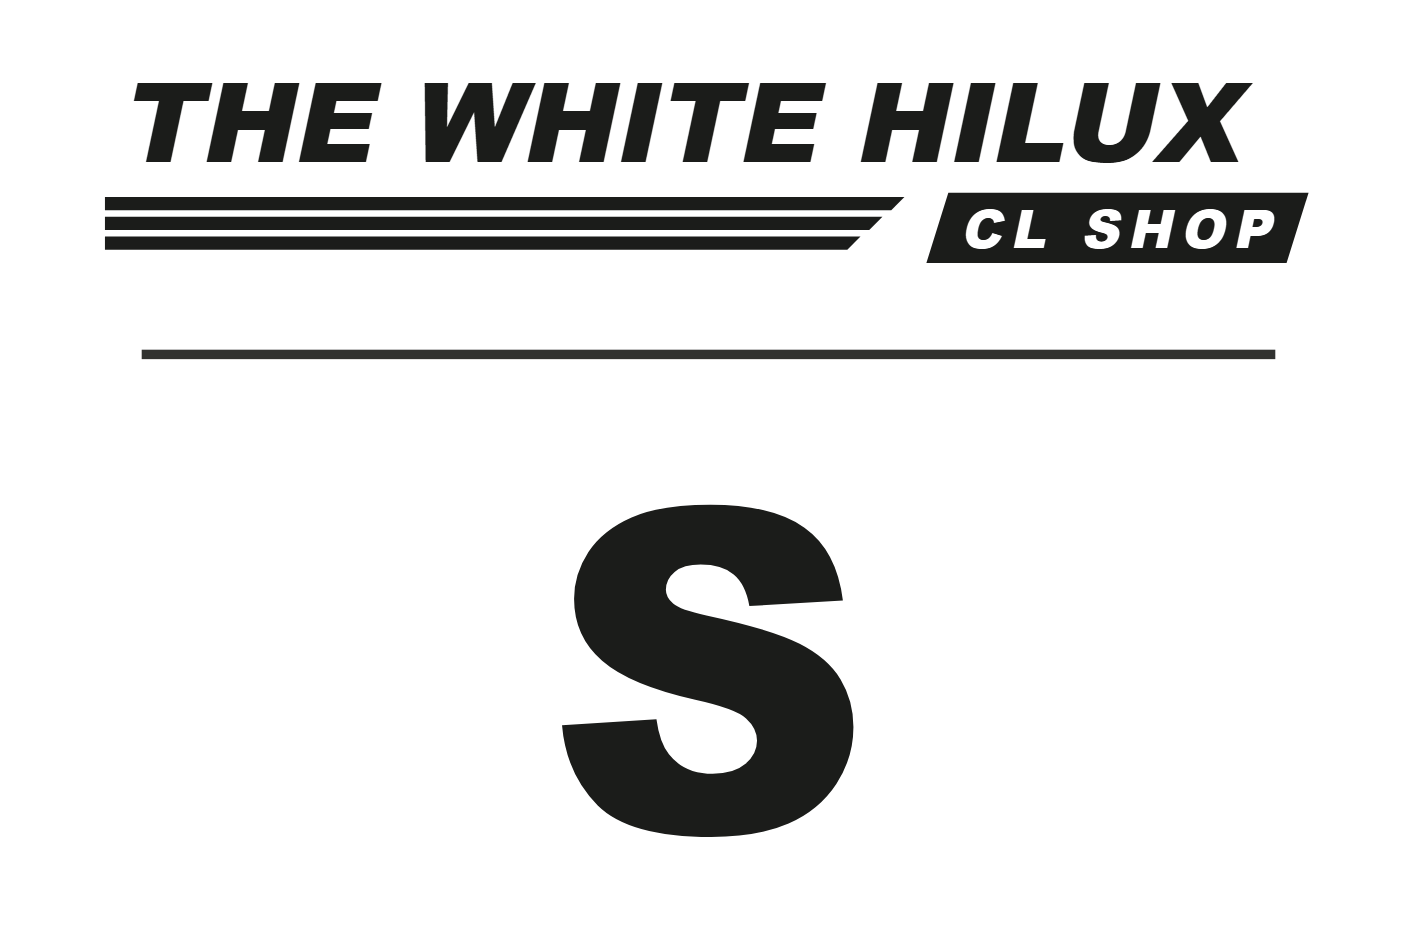
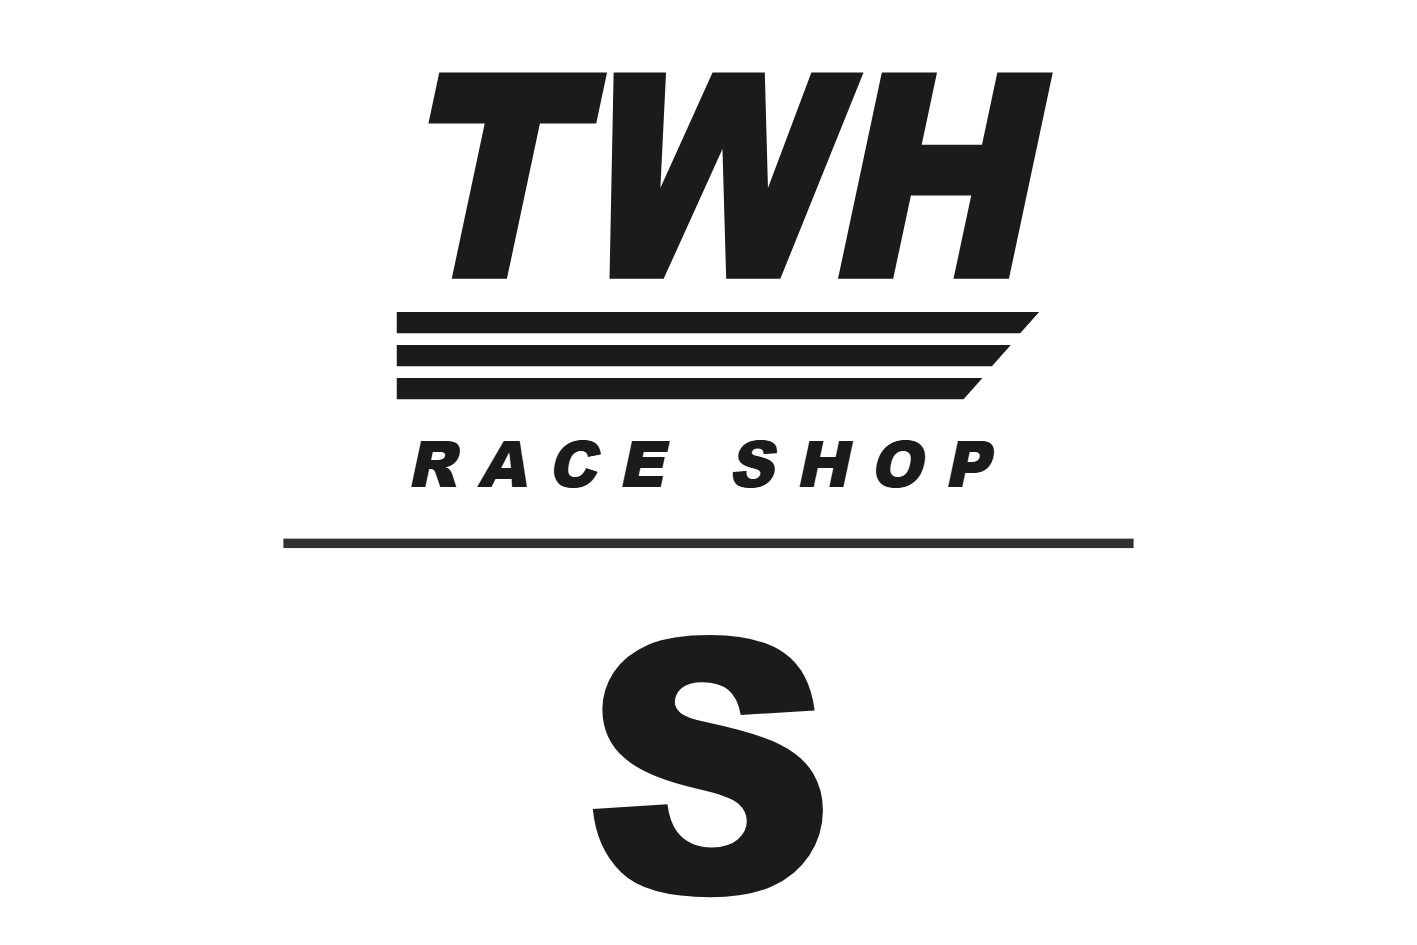
Etiqueta de cuello: iniciales TWH con franjas y RACE SHOP (sin CL SHOP)

Changed region(s): [[0.0621, 0.0614, 0.9315, 0.4296], [0.1863, 0.4603, 0.8073, 0.9513]]

diff --git a/disenos/configurador/etiqueta.js b/disenos/configurador/etiqueta.js
@@ -1,4 +1,4 @@
-// Etiqueta TWH estampada en el cuello interior: logo + talla (60 x 40 mm).
+// Etiqueta TWH estampada en el cuello interior: "TWH" + franjas + "RACE SHOP" + talla (60 x 40 mm).
 // La comparten disenos/etiquetas/generar.js (archivos para la imprenta) y el configurador (vista previa).
 // Dos versiones, según el color de la prenda:
 //   negra  → "clara"  (1 tinta crema)
@@ -11,26 +11,20 @@
   };
   function versionPara(color) { return color === 'blanco' ? 'oscura' : 'clara'; }
 
-  var n = 0;
-  // Mismo dibujo que el logo oficial "THE WHITE HILUX · CL SHOP" (web/assets/logos/logo-shop.svg), en 1 tinta,
-  // con "CL SHOP" calado dentro de su caja. Abajo la talla grande.
-  // opts.width/height: tamaño del <svg> (por defecto 60mm x 40mm)
+  // Iniciales "TWH" en cursiva con las 3 franjas de rally (mismo estilo del logo oficial), "RACE SHOP" debajo
+  // y la talla grande. 1 sola tinta. opts.width/height: tamaño del <svg> (por defecto 60mm x 40mm)
   function svg(talla, version, opts) {
     var o = opts || {};
     var ink = (VERSIONES[version] || VERSIONES.clara).tinta;
-    var id = 'twh-et-' + version + '-' + talla + '-' + (n++);
-    var ancho = talla.length >= 3 ? 330 : talla.length === 2 ? 260 : null; // XL/XXL más angostas
+    var ancho = talla.length >= 3 ? 300 : talla.length === 2 ? 230 : null; // XL/XXL más angostas
+    // franjas: borde izquierdo recto y derecho en diagonal, cada una un poco más corta (como en el logo)
+    var franja = function (y, x2) { return '<path d="M168 ' + y + ' H' + x2 + ' L' + (x2 - 8) + ' ' + (y + 9) + ' H168 Z" fill="' + ink + '"/>'; };
     return '<svg xmlns="http://www.w3.org/2000/svg" viewBox="0 0 600 400" width="' + (o.width || '60mm') + '" height="' + (o.height || '40mm') + '">' +
-      '<defs><mask id="' + id + '"><rect x="0" y="0" width="566" height="120" fill="#fff"/><g transform="translate(470 97) skewX(-12)"><text x="0" y="0" font-family="' + FONT + '" font-size="24" fill="#000" text-anchor="middle" letter-spacing="4">CL SHOP</text></g></mask></defs>' +
-      '<g transform="translate(37 22) scale(0.93) translate(0 -8)">' +
-        '<g transform="translate(14 58) skewX(-12)"><text x="0" y="0" font-family="' + FONT + '" font-size="50" fill="' + ink + '" textLength="510" lengthAdjust="spacingAndGlyphs">THE WHITE HILUX</text></g>' +
-        '<path d="M8 74 H372 L366 80 H8 Z" fill="' + ink + '"/>' +
-        '<path d="M8 83 H362 L356 89 H8 Z" fill="' + ink + '"/>' +
-        '<path d="M8 92 H352 L346 98 H8 Z" fill="' + ink + '"/>' +
-        '<path d="M392 72 H556 L546 104 H382 Z" fill="' + ink + '" mask="url(#' + id + ')"/>' +
-      '</g>' +
-      '<rect x="60" y="148" width="480" height="4" fill="' + ink + '" opacity=".9"/>' +
-      '<text x="300" y="352" font-family="' + FONT + '" font-size="190" fill="' + ink + '" text-anchor="middle"' + (ancho ? ' textLength="' + ancho + '" lengthAdjust="spacingAndGlyphs"' : '') + '>' + talla + '</text>' +
+      '<g transform="translate(300 118) skewX(-12)"><text x="0" y="0" font-family="' + FONT + '" font-size="122" fill="' + ink + '" text-anchor="middle" textLength="270" lengthAdjust="spacingAndGlyphs">TWH</text></g>' +
+      franja(132, 440) + franja(146, 428) + franja(160, 416) +
+      '<g transform="translate(300 206) skewX(-12)"><text x="0" y="0" font-family="' + FONT + '" font-size="27" fill="' + ink + '" text-anchor="middle" letter-spacing="9">RACE SHOP</text></g>' +
+      '<rect x="120" y="228" width="360" height="4" fill="' + ink + '" opacity=".9"/>' +
+      '<text x="300" y="378" font-family="' + FONT + '" font-size="150" fill="' + ink + '" text-anchor="middle"' + (ancho ? ' textLength="' + ancho + '" lengthAdjust="spacingAndGlyphs"' : '') + '>' + talla + '</text>' +
       '</svg>';
   }
 

diff --git a/web/admin/configurador/etiqueta.js b/web/admin/configurador/etiqueta.js
@@ -1,4 +1,4 @@
-// Etiqueta TWH estampada en el cuello interior: logo + talla (60 x 40 mm).
+// Etiqueta TWH estampada en el cuello interior: "TWH" + franjas + "RACE SHOP" + talla (60 x 40 mm).
 // La comparten disenos/etiquetas/generar.js (archivos para la imprenta) y el configurador (vista previa).
 // Dos versiones, según el color de la prenda:
 //   negra  → "clara"  (1 tinta crema)
@@ -11,26 +11,20 @@
   };
   function versionPara(color) { return color === 'blanco' ? 'oscura' : 'clara'; }
 
-  var n = 0;
-  // Mismo dibujo que el logo oficial "THE WHITE HILUX · CL SHOP" (web/assets/logos/logo-shop.svg), en 1 tinta,
-  // con "CL SHOP" calado dentro de su caja. Abajo la talla grande.
-  // opts.width/height: tamaño del <svg> (por defecto 60mm x 40mm)
+  // Iniciales "TWH" en cursiva con las 3 franjas de rally (mismo estilo del logo oficial), "RACE SHOP" debajo
+  // y la talla grande. 1 sola tinta. opts.width/height: tamaño del <svg> (por defecto 60mm x 40mm)
   function svg(talla, version, opts) {
     var o = opts || {};
     var ink = (VERSIONES[version] || VERSIONES.clara).tinta;
-    var id = 'twh-et-' + version + '-' + talla + '-' + (n++);
-    var ancho = talla.length >= 3 ? 330 : talla.length === 2 ? 260 : null; // XL/XXL más angostas
+    var ancho = talla.length >= 3 ? 300 : talla.length === 2 ? 230 : null; // XL/XXL más angostas
+    // franjas: borde izquierdo recto y derecho en diagonal, cada una un poco más corta (como en el logo)
+    var franja = function (y, x2) { return '<path d="M168 ' + y + ' H' + x2 + ' L' + (x2 - 8) + ' ' + (y + 9) + ' H168 Z" fill="' + ink + '"/>'; };
     return '<svg xmlns="http://www.w3.org/2000/svg" viewBox="0 0 600 400" width="' + (o.width || '60mm') + '" height="' + (o.height || '40mm') + '">' +
-      '<defs><mask id="' + id + '"><rect x="0" y="0" width="566" height="120" fill="#fff"/><g transform="translate(470 97) skewX(-12)"><text x="0" y="0" font-family="' + FONT + '" font-size="24" fill="#000" text-anchor="middle" letter-spacing="4">CL SHOP</text></g></mask></defs>' +
-      '<g transform="translate(37 22) scale(0.93) translate(0 -8)">' +
-        '<g transform="translate(14 58) skewX(-12)"><text x="0" y="0" font-family="' + FONT + '" font-size="50" fill="' + ink + '" textLength="510" lengthAdjust="spacingAndGlyphs">THE WHITE HILUX</text></g>' +
-        '<path d="M8 74 H372 L366 80 H8 Z" fill="' + ink + '"/>' +
-        '<path d="M8 83 H362 L356 89 H8 Z" fill="' + ink + '"/>' +
-        '<path d="M8 92 H352 L346 98 H8 Z" fill="' + ink + '"/>' +
-        '<path d="M392 72 H556 L546 104 H382 Z" fill="' + ink + '" mask="url(#' + id + ')"/>' +
-      '</g>' +
-      '<rect x="60" y="148" width="480" height="4" fill="' + ink + '" opacity=".9"/>' +
-      '<text x="300" y="352" font-family="' + FONT + '" font-size="190" fill="' + ink + '" text-anchor="middle"' + (ancho ? ' textLength="' + ancho + '" lengthAdjust="spacingAndGlyphs"' : '') + '>' + talla + '</text>' +
+      '<g transform="translate(300 118) skewX(-12)"><text x="0" y="0" font-family="' + FONT + '" font-size="122" fill="' + ink + '" text-anchor="middle" textLength="270" lengthAdjust="spacingAndGlyphs">TWH</text></g>' +
+      franja(132, 440) + franja(146, 428) + franja(160, 416) +
+      '<g transform="translate(300 206) skewX(-12)"><text x="0" y="0" font-family="' + FONT + '" font-size="27" fill="' + ink + '" text-anchor="middle" letter-spacing="9">RACE SHOP</text></g>' +
+      '<rect x="120" y="228" width="360" height="4" fill="' + ink + '" opacity=".9"/>' +
+      '<text x="300" y="378" font-family="' + FONT + '" font-size="150" fill="' + ink + '" text-anchor="middle"' + (ancho ? ' textLength="' + ancho + '" lengthAdjust="spacingAndGlyphs"' : '') + '>' + talla + '</text>' +
       '</svg>';
   }
 

diff --git a/web/admin/configurador/configurador.html b/web/admin/configurador/configurador.html
@@ -155,9 +155,9 @@
   </aside>
 </div>
 
-<script src="posiciones.js?v=mwm62jnp"></script>
-<script src="datos.js?v=mwm62jnp"></script>
-<script src="etiqueta.js?v=mwm62jnp"></script>
+<script src="posiciones.js?v=mwm65375"></script>
+<script src="datos.js?v=mwm65375"></script>
+<script src="etiqueta.js?v=mwm65375"></script>
 <script>
 (function () {
   var P = TWHPos, CFG = TWH_CFG, KEY = 'twh-cfg-coleccion';
